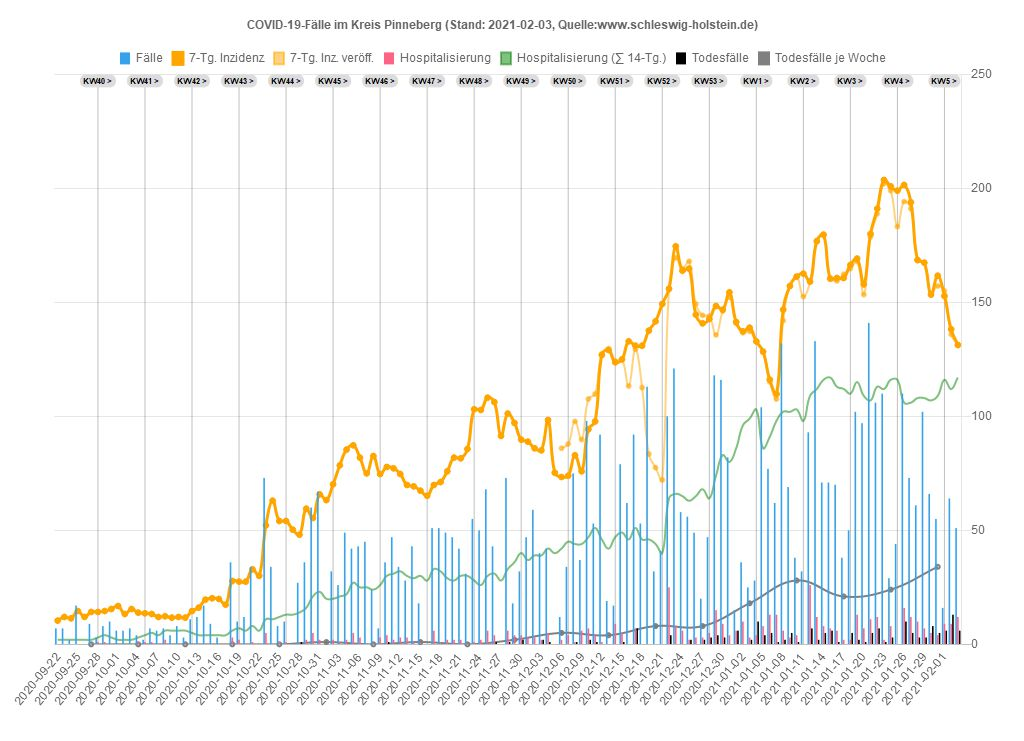
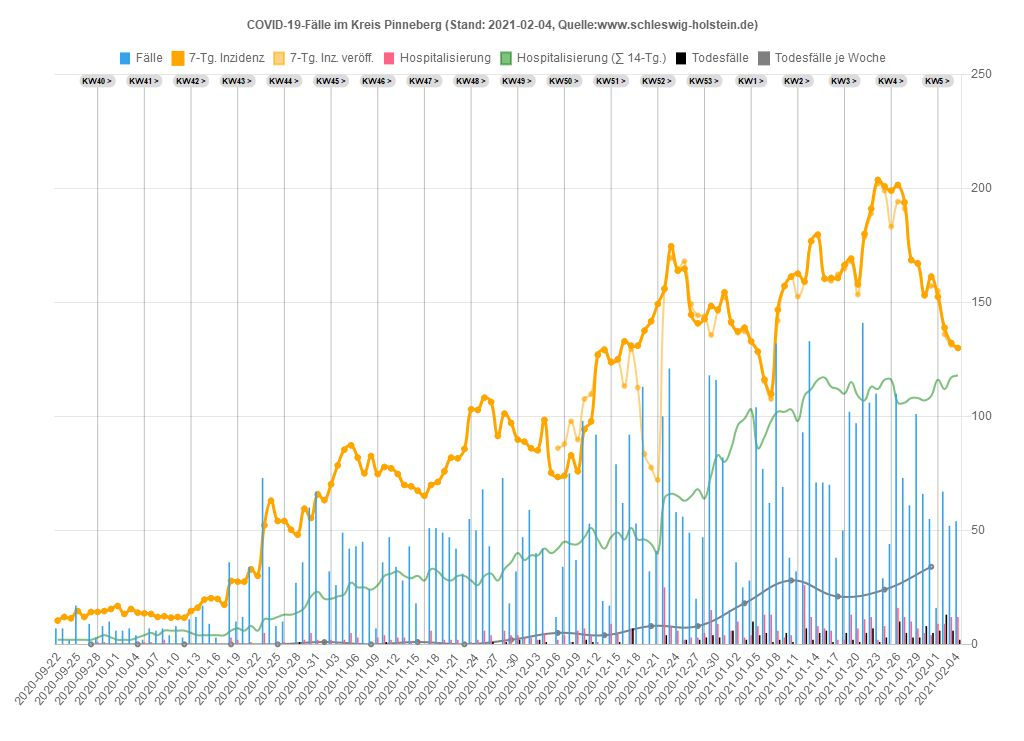
04.02.2021 20:33:41,16

Changed region(s): [[0.0938, 0.0931, 0.9375, 0.9622], [0.0625, 0.0931, 0.0938, 0.1242]]

diff --git a/sh/Data_SH.js b/sh/Data_SH.js
@@ -1,20 +1,20 @@
 var chdata={
-labels: ["2020-09-22","2020-09-23","2020-09-24","2020-09-25","2020-09-26","2020-09-27","2020-09-28","2020-09-29","2020-09-30","2020-10-01","2020-10-02","2020-10-03","2020-10-04","2020-10-05","2020-10-06","2020-10-07","2020-10-08","2020-10-09","2020-10-10","2020-10-11","2020-10-12","2020-10-13","2020-10-14","2020-10-15","2020-10-16","2020-10-17","2020-10-18","2020-10-19","2020-10-20","2020-10-21","2020-10-22","2020-10-23","2020-10-24","2020-10-25","2020-10-26","2020-10-27","2020-10-28","2020-10-29","2020-10-30","2020-10-31","2020-11-01","2020-11-02","2020-11-03","2020-11-04","2020-11-05","2020-11-06","2020-11-07","2020-11-08","2020-11-09","2020-11-10","2020-11-11","2020-11-12","2020-11-13","2020-11-14","2020-11-15","2020-11-16","2020-11-17","2020-11-18","2020-11-19","2020-11-20","2020-11-21","2020-11-22","2020-11-23","2020-11-24","2020-11-25","2020-11-26","2020-11-27","2020-11-28","2020-11-29","2020-11-30","2020-12-01","2020-12-02","2020-12-03","2020-12-04","2020-12-05","2020-12-06","2020-12-07","2020-12-08","2020-12-09","2020-12-10","2020-12-11","2020-12-12","2020-12-13","2020-12-14","2020-12-15","2020-12-16","2020-12-17","2020-12-18","2020-12-19","2020-12-20","2020-12-21","2020-12-22","2020-12-23","2020-12-24","2020-12-25","2020-12-26","2020-12-27","2020-12-28","2020-12-29","2020-12-30","2020-12-31","2021-01-01","2021-01-02","2021-01-03","2021-01-04","2021-01-05","2021-01-06","2021-01-07","2021-01-08","2021-01-09","2021-01-10","2021-01-11","2021-01-12","2021-01-13","2021-01-14","2021-01-15","2021-01-16","2021-01-17","2021-01-18","2021-01-19","2021-01-20","2021-01-21","2021-01-22","2021-01-23","2021-01-24","2021-01-25","2021-01-26","2021-01-27","2021-01-28","2021-01-29","2021-01-30","2021-01-31","2021-02-01","2021-02-02","2021-02-03"],
+labels: ["2020-09-22","2020-09-23","2020-09-24","2020-09-25","2020-09-26","2020-09-27","2020-09-28","2020-09-29","2020-09-30","2020-10-01","2020-10-02","2020-10-03","2020-10-04","2020-10-05","2020-10-06","2020-10-07","2020-10-08","2020-10-09","2020-10-10","2020-10-11","2020-10-12","2020-10-13","2020-10-14","2020-10-15","2020-10-16","2020-10-17","2020-10-18","2020-10-19","2020-10-20","2020-10-21","2020-10-22","2020-10-23","2020-10-24","2020-10-25","2020-10-26","2020-10-27","2020-10-28","2020-10-29","2020-10-30","2020-10-31","2020-11-01","2020-11-02","2020-11-03","2020-11-04","2020-11-05","2020-11-06","2020-11-07","2020-11-08","2020-11-09","2020-11-10","2020-11-11","2020-11-12","2020-11-13","2020-11-14","2020-11-15","2020-11-16","2020-11-17","2020-11-18","2020-11-19","2020-11-20","2020-11-21","2020-11-22","2020-11-23","2020-11-24","2020-11-25","2020-11-26","2020-11-27","2020-11-28","2020-11-29","2020-11-30","2020-12-01","2020-12-02","2020-12-03","2020-12-04","2020-12-05","2020-12-06","2020-12-07","2020-12-08","2020-12-09","2020-12-10","2020-12-11","2020-12-12","2020-12-13","2020-12-14","2020-12-15","2020-12-16","2020-12-17","2020-12-18","2020-12-19","2020-12-20","2020-12-21","2020-12-22","2020-12-23","2020-12-24","2020-12-25","2020-12-26","2020-12-27","2020-12-28","2020-12-29","2020-12-30","2020-12-31","2021-01-01","2021-01-02","2021-01-03","2021-01-04","2021-01-05","2021-01-06","2021-01-07","2021-01-08","2021-01-09","2021-01-10","2021-01-11","2021-01-12","2021-01-13","2021-01-14","2021-01-15","2021-01-16","2021-01-17","2021-01-18","2021-01-19","2021-01-20","2021-01-21","2021-01-22","2021-01-23","2021-01-24","2021-01-25","2021-01-26","2021-01-27","2021-01-28","2021-01-29","2021-01-30","2021-01-31","2021-02-01","2021-02-02","2021-02-03","2021-02-04"],
 datasets: [
 {label: 'Fälle',
 type: 'bar',
 backgroundColor: window.chartColors.blue,
-data: [38,42,63,53,15,15,38,48,49,27,50,16,24,39,54,45,79,54,26,25,65,65,65,55,90,26,88,163,111,160,136,236,142,115,164,164,280,215,313,265,161,142,236,262,220,274,233,177,215,252,247,192,296,158,161,100,294,208,264,250,153,121,145,251,256,225,180,219,71,81,244,240,245,318,234,122,179,356,340,443,429,444,144,210,506,522,489,553,440,193,280,589,673,366,177,201,188,268,576,466,357,135,264,203,265,542,537,482,523,408,143,261,399,491,422,417,358,202,239,468,485,501,459,442,157,161,539,464,385,347,262,179,129,367,345]},
+data: [38,42,63,53,15,15,38,48,49,27,50,16,24,39,54,45,79,54,26,25,65,65,65,55,90,26,88,163,111,160,136,236,142,115,164,164,280,215,313,265,161,142,236,262,220,274,233,177,215,252,247,192,296,158,161,100,294,208,264,250,153,121,145,251,256,225,180,219,71,81,244,240,245,318,234,122,179,356,340,443,429,444,144,210,506,522,489,553,440,193,280,589,673,366,177,201,188,268,576,466,357,135,264,203,265,542,537,482,523,408,143,261,399,491,422,417,358,202,239,468,485,501,459,442,157,161,539,464,385,347,262,179,130,371,346,290]},
 {label: '7-Tg. Inzidenz',
 type: 'line',
 fill: false,
 pointBackgroundColor: 'orange',
 borderColor: 'orange',
-data: [7.2,7.9,8.7,9.4,9.3,9.2,9.1,9.4,9.7,8.4,8.3,8.4,8.7,8.7,8.9,8.8,10.6,10.7,11.1,11.1,12.0,12.4,13.1,12.2,13.5,13.5,15.6,19.0,20.6,23.9,26.7,31.7,35.7,36.6,36.6,38.5,42.6,45.3,48.0,52.2,53.8,53.0,55.5,54.9,55.1,53.7,52.6,53.2,55.7,56.2,55.7,54.8,55.5,52.9,52.4,48.4,49.9,48.5,51.0,49.4,49.2,47.9,49.4,47.9,49.6,48.2,45.8,48.1,46.4,44.2,43.9,43.4,44.1,48.8,49.3,51.1,54.5,58.3,61.8,68.6,72.4,79.7,80.4,81.5,86.6,92.9,94.5,98.8,98.6,100.3,102.7,105.6,110.8,106.6,93.6,85.4,85.2,84.8,84.3,77.2,76.9,75.5,77.6,78.1,78.0,76.9,79.3,83.6,97.0,101.9,99.9,99.7,94.8,93.2,91.2,87.5,85.8,87.8,87.1,89.4,89.2,91.9,93.4,96.3,94.7,92.1,94.5,93.8,89.8,85.9,79.7,80.5,79.4,73.5,69.4]},
+data: [7.2,7.9,8.7,9.4,9.3,9.2,9.1,9.4,9.7,8.4,8.3,8.4,8.7,8.7,8.9,8.8,10.6,10.7,11.1,11.1,12.0,12.4,13.1,12.2,13.5,13.5,15.6,19.0,20.6,23.9,26.7,31.7,35.7,36.6,36.6,38.5,42.6,45.3,48.0,52.2,53.8,53.0,55.5,54.9,55.1,53.7,52.6,53.2,55.7,56.2,55.7,54.8,55.5,52.9,52.4,48.4,49.9,48.5,51.0,49.4,49.2,47.9,49.4,47.9,49.6,48.2,45.8,48.1,46.4,44.2,43.9,43.4,44.1,48.8,49.3,51.1,54.5,58.3,61.8,68.6,72.4,79.7,80.4,81.5,86.6,92.9,94.5,98.8,98.6,100.3,102.7,105.6,110.8,106.6,93.6,85.4,85.2,84.8,84.3,77.2,76.9,75.5,77.6,78.1,78.0,76.9,79.3,83.6,97.0,101.9,99.9,99.7,94.8,93.2,91.2,87.5,85.8,87.8,87.1,89.4,89.2,91.9,93.4,96.3,94.7,92.1,94.5,93.8,89.8,85.9,79.7,80.5,79.4,73.6,69.6,66.3]},
 {label: 'Hospitalisierung',
 type: 'bar',
 backgroundColor: window.chartColors.red,
-data: [1,2,7,1,0,0,2,1,3,1,1,0,4,3,1,1,4,2,0,3,5,1,1,2,4,0,9,10,8,9,12,7,5,6,7,7,11,10,11,6,3,9,19,20,15,15,5,7,13,15,21,13,17,8,17,13,23,10,15,9,7,7,13,16,26,19,12,14,15,10,12,8,10,14,3,5,24,13,26,20,14,12,6,26,27,16,20,18,8,13,13,43,35,23,17,21,26,25,46,33,33,20,34,32,51,58,35,46,34,30,22,45,69,51,59,52,32,37,36,51,53,47,34,33,38,51,37,53,37,29,46,58,40,36,47]},
+data: [1,2,7,1,0,0,2,1,3,1,1,0,4,3,1,1,4,2,0,3,5,1,1,2,4,0,9,10,8,9,12,7,5,6,7,7,11,10,11,6,3,9,19,20,15,15,5,7,13,15,21,13,17,8,17,13,23,10,15,9,7,7,13,16,26,19,12,14,15,10,12,8,10,14,3,5,24,13,26,20,14,12,6,26,27,16,20,18,8,13,13,43,35,23,17,21,26,25,46,33,33,20,34,32,51,58,35,46,34,30,22,45,69,51,59,52,32,37,36,51,53,47,34,33,38,51,37,53,37,29,46,58,40,36,47,44]},
 {label: 'Hosp. (∑ 14-Tg.)',
 type: 'line',
 fill: false,
@@ -22,17 +22,17 @@ hidden: true,
 borderColor: 'rgba(0,255,0,0.5)',
 borderWidth: 1.5,
 pointRadius: 0,
-data: [12,12,20,22,22,22,22,23,23,21,22,21,24,26,26,25,22,23,23,26,29,29,27,28,31,31,36,43,50,58,66,71,76,79,81,87,97,105,112,118,112,111,122,133,136,144,144,145,151,159,169,172,178,180,194,198,202,192,192,186,188,188,188,189,194,200,195,201,199,196,185,183,178,183,179,177,188,185,185,186,188,186,177,193,208,216,226,230,235,243,232,262,271,274,277,286,306,305,324,341,354,356,382,401,439,454,454,477,494,503,499,519,542,560,586,618,616,621,606,599,617,618,618,621,637,643,611,613,591,568,582,603,607,592,586]},
+data: [12,12,20,22,22,22,22,23,23,21,22,21,24,26,26,25,22,23,23,26,29,29,27,28,31,31,36,43,50,58,66,71,76,79,81,87,97,105,112,118,112,111,122,133,136,144,144,145,151,159,169,172,178,180,194,198,202,192,192,186,188,188,188,189,194,200,195,201,199,196,185,183,178,183,179,177,188,185,185,186,188,186,177,193,208,216,226,230,235,243,232,262,271,274,277,286,306,305,324,341,354,356,382,401,439,454,454,477,494,503,499,519,542,560,586,618,616,621,606,599,617,618,618,621,637,643,611,613,591,568,582,603,607,592,586,583]},
 {label: 'Aktuell im Krankenhaus',
 type: 'line',
 fill: false,
 pointBackgroundColor: 'green',
 borderColor: 'green',
-data: [6,6,6,6,6,6,6,11,11,11,11,14,14,15,15,14,14,14,13,13,18,18,18,21,24,24,24,24,31,31,31,31,51,51,58,58,58,58,58,58,58,94,110,114,119,118,124,120,126,116,113,119,112,116,116,148,145,151,141,141,141,141,155,142,122,113,118,118,118,124,114,110,109,114,114,114,131,122,128,132,133,133,133,177,181,194,201,212,236,250,275,271,267,262,262,262,262,309,318,322,346,346,376,376,390,412,376,379,364,364,364,384,362,373,382,398,426,473,454,457,457,438,447,461,485,499,499,494,505,485,488,506,513,501,471]},
+data: [6,6,6,6,6,6,6,11,11,11,11,14,14,15,15,14,14,14,13,13,18,18,18,21,24,24,24,24,31,31,31,31,51,51,58,58,58,58,58,58,58,94,110,114,119,118,124,120,126,116,113,119,112,116,116,148,145,151,141,141,141,141,155,142,122,113,118,118,118,124,114,110,109,114,114,114,131,122,128,132,133,133,133,177,181,194,201,212,236,250,275,271,267,262,262,262,262,309,318,322,346,346,376,376,390,412,376,379,364,364,364,384,362,373,382,398,426,473,454,457,457,438,447,461,485,499,499,494,505,485,488,506,513,501,471,473]},
 {label: 'Todesfälle',
 type: 'bar',
 backgroundColor: 'black',
-data: [0,0,0,0,0,0,0,1,0,0,0,0,0,0,0,0,0,0,0,0,0,1,0,0,0,0,0,0,0,0,1,0,0,3,0,0,3,4,1,0,2,6,7,2,2,6,0,1,4,3,5,0,5,1,3,5,0,2,2,2,1,0,3,4,1,3,3,1,4,2,3,1,4,1,0,1,4,2,5,7,7,1,2,2,6,7,11,3,2,0,9,15,4,3,4,7,10,18,17,14,2,9,7,3,29,22,17,6,14,11,9,15,25,15,15,24,3,1,23,16,16,18,16,3,11,14,25,21,19,19,24,11,29,27,23]},
+data: [0,0,0,0,0,0,0,1,0,0,0,0,0,0,0,0,0,0,0,0,0,1,0,0,0,0,0,0,0,0,1,0,0,3,0,0,3,4,1,0,2,6,7,2,2,6,0,1,4,3,5,0,5,1,3,5,0,2,2,2,1,0,3,4,1,3,3,1,4,2,3,1,4,1,0,1,4,2,5,7,7,1,2,2,6,7,11,3,2,0,9,15,4,3,4,7,10,18,17,14,2,9,7,3,29,22,17,6,14,11,9,15,25,15,15,24,3,1,23,16,16,18,16,3,11,14,25,21,19,19,24,11,29,27,23,18]},
 {label: 'Todesfälle je Woche',
 type: 'line',
 fill: false,
@@ -41,6 +41,6 @@ borderColor: 'rgba(128,128,128,1)',
 borderWidth: 2,
 pointRadius: 2,
 yAxisID: 'first-y-axis',
-data: [,,,,,0,,,,,,,1,,,,,,,0,,,,,,,1,,,,,,,4,,,,,,,10,,,,,,,24,,,,,,,21,,,,,,,12,,,,,,,19,,,,,,,12,,,,,,,28,,,,,,,31,,,,,,,52,,,,,,,70,,,,,,,108,,,,,,,98,,,,,,,103,,,,,,,133,,,]},
+data: [,,,,,0,,,,,,,1,,,,,,,0,,,,,,,1,,,,,,,4,,,,,,,10,,,,,,,24,,,,,,,21,,,,,,,12,,,,,,,19,,,,,,,12,,,,,,,28,,,,,,,31,,,,,,,52,,,,,,,70,,,,,,,108,,,,,,,98,,,,,,,103,,,,,,,133,,,,]},
 ]};
 

diff --git a/sh/Kreis_PI.js b/sh/Kreis_PI.js
@@ -1,18 +1,18 @@
 var chdata={
-labels: ["2020-09-22","2020-09-23","2020-09-24","2020-09-25","2020-09-26","2020-09-27","2020-09-28","2020-09-29","2020-09-30","2020-10-01","2020-10-02","2020-10-03","2020-10-04","2020-10-05","2020-10-06","2020-10-07","2020-10-08","2020-10-09","2020-10-10","2020-10-11","2020-10-12","2020-10-13","2020-10-14","2020-10-15","2020-10-16","2020-10-17","2020-10-18","2020-10-19","2020-10-20","2020-10-21","2020-10-22","2020-10-23","2020-10-24","2020-10-25","2020-10-26","2020-10-27","2020-10-28","2020-10-29","2020-10-30","2020-10-31","2020-11-01","2020-11-02","2020-11-03","2020-11-04","2020-11-05","2020-11-06","2020-11-07","2020-11-08","2020-11-09","2020-11-10","2020-11-11","2020-11-12","2020-11-13","2020-11-14","2020-11-15","2020-11-16","2020-11-17","2020-11-18","2020-11-19","2020-11-20","2020-11-21","2020-11-22","2020-11-23","2020-11-24","2020-11-25","2020-11-26","2020-11-27","2020-11-28","2020-11-29","2020-11-30","2020-12-01","2020-12-02","2020-12-03","2020-12-04","2020-12-05","2020-12-06","2020-12-07","2020-12-08","2020-12-09","2020-12-10","2020-12-11","2020-12-12","2020-12-13","2020-12-14","2020-12-15","2020-12-16","2020-12-17","2020-12-18","2020-12-19","2020-12-20","2020-12-21","2020-12-22","2020-12-23","2020-12-24","2020-12-25","2020-12-26","2020-12-27","2020-12-28","2020-12-29","2020-12-30","2020-12-31","2021-01-01","2021-01-02","2021-01-03","2021-01-04","2021-01-05","2021-01-06","2021-01-07","2021-01-08","2021-01-09","2021-01-10","2021-01-11","2021-01-12","2021-01-13","2021-01-14","2021-01-15","2021-01-16","2021-01-17","2021-01-18","2021-01-19","2021-01-20","2021-01-21","2021-01-22","2021-01-23","2021-01-24","2021-01-25","2021-01-26","2021-01-27","2021-01-28","2021-01-29","2021-01-30","2021-01-31","2021-02-01","2021-02-02","2021-02-03"],
+labels: ["2020-09-22","2020-09-23","2020-09-24","2020-09-25","2020-09-26","2020-09-27","2020-09-28","2020-09-29","2020-09-30","2020-10-01","2020-10-02","2020-10-03","2020-10-04","2020-10-05","2020-10-06","2020-10-07","2020-10-08","2020-10-09","2020-10-10","2020-10-11","2020-10-12","2020-10-13","2020-10-14","2020-10-15","2020-10-16","2020-10-17","2020-10-18","2020-10-19","2020-10-20","2020-10-21","2020-10-22","2020-10-23","2020-10-24","2020-10-25","2020-10-26","2020-10-27","2020-10-28","2020-10-29","2020-10-30","2020-10-31","2020-11-01","2020-11-02","2020-11-03","2020-11-04","2020-11-05","2020-11-06","2020-11-07","2020-11-08","2020-11-09","2020-11-10","2020-11-11","2020-11-12","2020-11-13","2020-11-14","2020-11-15","2020-11-16","2020-11-17","2020-11-18","2020-11-19","2020-11-20","2020-11-21","2020-11-22","2020-11-23","2020-11-24","2020-11-25","2020-11-26","2020-11-27","2020-11-28","2020-11-29","2020-11-30","2020-12-01","2020-12-02","2020-12-03","2020-12-04","2020-12-05","2020-12-06","2020-12-07","2020-12-08","2020-12-09","2020-12-10","2020-12-11","2020-12-12","2020-12-13","2020-12-14","2020-12-15","2020-12-16","2020-12-17","2020-12-18","2020-12-19","2020-12-20","2020-12-21","2020-12-22","2020-12-23","2020-12-24","2020-12-25","2020-12-26","2020-12-27","2020-12-28","2020-12-29","2020-12-30","2020-12-31","2021-01-01","2021-01-02","2021-01-03","2021-01-04","2021-01-05","2021-01-06","2021-01-07","2021-01-08","2021-01-09","2021-01-10","2021-01-11","2021-01-12","2021-01-13","2021-01-14","2021-01-15","2021-01-16","2021-01-17","2021-01-18","2021-01-19","2021-01-20","2021-01-21","2021-01-22","2021-01-23","2021-01-24","2021-01-25","2021-01-26","2021-01-27","2021-01-28","2021-01-29","2021-01-30","2021-01-31","2021-02-01","2021-02-02","2021-02-03","2021-02-04"],
 datasets: [
 {label: 'Fälle',
 type: 'bar',
 backgroundColor: window.chartColors.blue,
 yAxisID: 'first-y-axis',
-data: [7,7,2,17,0,9,3,8,10,6,6,7,4,2,7,6,7,4,8,3,11,12,17,9,3,0,36,10,12,34,0,73,34,8,10,0,27,36,60,67,0,32,26,49,42,43,45,24,7,36,47,34,28,43,18,0,51,51,49,47,42,31,55,50,68,43,0,73,18,32,47,59,40,42,0,12,34,75,37,98,53,92,19,17,79,62,92,53,113,32,41,100,121,58,56,49,20,47,118,116,82,15,36,25,28,104,77,62,132,69,38,32,93,133,71,71,70,38,50,102,97,141,106,110,29,44,110,73,61,102,66,55,16,64,51]},
+data: [7,7,2,17,0,9,3,8,10,6,6,7,4,2,7,6,7,4,8,3,11,12,17,9,3,0,36,10,12,34,0,73,34,8,10,0,27,36,60,67,0,32,26,49,42,43,45,24,7,36,47,34,28,43,18,0,51,51,49,47,42,31,55,50,68,43,0,73,18,32,47,59,40,42,0,12,34,75,37,98,53,92,19,17,79,62,92,53,113,32,41,100,121,58,56,49,20,47,118,116,82,15,36,25,28,104,77,62,132,69,38,32,93,133,71,71,70,38,50,102,97,141,106,110,29,44,110,73,61,101,66,55,16,67,52,54]},
 {label: '7-Tg. Inzidenz',
 type: 'line',
 fill: false,
 pointBackgroundColor: 'orange',
 borderColor: 'orange',
 yAxisID: 'first-y-axis',
-data: [10.4,12.0,11.4,14.6,12.0213981,14.2,14.2,14.6,15.5,16.8,13.3,15.5,13.9,13.6,13.3,12.0,12.3,11.7,12.0,11.7,14.6,16.1,19.6,20.2,19.9,17.399392,27.8,27.5,27.5,32.9,30.0534952,52.2,63.0,54.1,54.1,50.3000604,48.1,59.5,55.4,65.8,63.2705163,70.2,78.5,85.4,87.3,81.9,75.0,82.6,74.7,77.8,77.2,74.7,69.9,69.3,67.4,65.1686317,69.9,71.2,75.9,81.9,81.6,85.7,103.1,102.8,108.2,106.3,91.425896,101.2,97.1,89.8,88.9,86.0,85.1,98.4,75.2919143,73.4,74.0,82.9,75.9,94.3,97.8,126.9,129.1,123.7,125.0,132.9,131.0,131.0,137.6,141.7,149.3,156.0,174.6,163.9,164.8,144.6,140.8,142.7,148.4,146.8,154.4,141.4,137.3,138.9,132.9,128.4,116.1,109.8,146.8,157.2,161.3,162.6,159.1,176.8,179.7,160.4,160.7,160.7,166.4,169.2,157.9,180.0,191.1,203.7,200.9,199.0,201.5,193.9,168.6,167.4,153.4,161.7,152.8,138.2,131.3]},
+data: [10.4,12.0,11.4,14.6,12.0213981,14.2,14.2,14.6,15.5,16.8,13.3,15.5,13.9,13.6,13.3,12.0,12.3,11.7,12.0,11.7,14.6,16.1,19.6,20.2,19.9,17.399392,27.8,27.5,27.5,32.9,30.0534952,52.2,63.0,54.1,54.1,50.3000604,48.1,59.5,55.4,65.8,63.2705163,70.2,78.5,85.4,87.3,81.9,75.0,82.6,74.7,77.8,77.2,74.7,69.9,69.3,67.4,65.1686317,69.9,71.2,75.9,81.9,81.6,85.7,103.1,102.8,108.2,106.3,91.425896,101.2,97.1,89.8,88.9,86.0,85.1,98.4,75.2919143,73.4,74.0,82.9,75.9,94.3,97.8,126.9,129.1,123.7,125.0,132.9,131.0,131.0,137.6,141.7,149.3,156.0,174.6,163.9,164.8,144.6,140.8,142.7,148.4,146.8,154.4,141.4,137.3,138.9,132.9,128.4,116.1,109.8,146.8,157.2,161.3,162.6,159.1,176.8,179.7,160.4,160.7,160.7,166.4,169.2,157.9,180.0,191.1,203.7,200.9,199.0,201.5,193.9,168.6,167.0,153.1,161.3,152.5,138.9,132.2,130.0]},
 {label: '7-Tg. Inz. veröff.',
 type: 'line',
 fill: false,
@@ -21,12 +21,12 @@ borderColor: 'rgba(255,165,0,0.5)',
 borderWidth: 2,
 pointRadius: 2,
 yAxisID: 'first-y-axis',
-data: [,,,,,,,,,,,,,,,,,,,,,,,,,,,,,,,,,,,,,,,,,,,,,,,,,,,,,,,,,,,,,,,,,,,,,,,,,,,86.0,87.9,97.8,89.8,107.6,109.8,127.5,129.7,124.3,125.0,113.3,129.4,112.6,83.5,77.5,72.1,155.6,169.6,164.8,168.0,149.3,144.3,143.9,135.7,146.2,152.2,140.8,136.7,137.3,132.9,128.4,115.2,107.6,142.0,157.2,161.3,152.5,159.1,177.2,179.4,160.7,159.4,162.3,164.8,168.0,153.4,178.7,188.9,202.1,199.0,183.2,194.2,191.1,168.3,167.4,153.7,157.2,155.0,136.0,131.3]},
+data: [,,,,,,,,,,,,,,,,,,,,,,,,,,,,,,,,,,,,,,,,,,,,,,,,,,,,,,,,,,,,,,,,,,,,,,,,,,,86.0,87.9,97.8,89.8,107.6,109.8,127.5,129.7,124.3,125.0,113.3,129.4,112.6,83.5,77.5,72.1,155.6,169.6,164.8,168.0,149.3,144.3,143.9,135.7,146.2,152.2,140.8,136.7,137.3,132.9,128.4,115.2,107.6,142.0,157.2,161.3,152.5,159.1,177.2,179.4,160.7,159.4,162.3,164.8,168.0,153.4,178.7,188.9,202.1,199.0,183.2,194.2,191.1,168.3,167.4,153.7,157.2,155.0,136.0,131.3,130.0]},
 {label: 'Hospitalisierung',
 type: 'bar',
 backgroundColor: window.chartColors.red,
 yAxisID: 'first-y-axis',
-data: [0,0,0,0,0,0,1,1,0,0,0,0,1,1,1,-1,2,0,0,0,0,0,0,0,0,0,3,2,0,1,0,5,0,1,1,0,1,2,5,2,0,2,1,2,5,3,0,0,3,4,2,3,3,1,1,0,6,1,2,2,2,0,1,2,6,4,0,6,4,4,3,3,2,5,0,2,4,1,6,7,4,1,0,9,5,0,7,0,0,0,0,25,8,6,2,3,3,5,15,9,4,6,10,3,4,8,13,13,6,3,4,0,26,12,8,7,6,2,2,13,7,11,12,2,8,0,16,12,10,7,5,4,9,9,12]},
+data: [0,0,0,0,0,0,1,1,0,0,0,0,1,1,1,-1,2,0,0,0,0,0,0,0,0,0,3,2,0,1,0,5,0,1,1,0,1,2,5,2,0,2,1,2,5,3,0,0,3,4,2,3,3,1,1,0,6,1,2,2,2,0,1,2,6,4,0,6,4,4,3,3,2,5,0,2,4,1,6,7,4,1,0,9,5,0,7,0,0,0,0,25,8,6,2,3,3,5,15,9,4,6,10,3,4,8,13,13,6,3,4,0,26,12,8,7,6,2,2,13,7,11,12,2,8,0,16,12,10,7,5,4,9,9,12,12]},
 {label: 'Hospitalisierung (∑ 14-Tg.)',
 type: 'line',
 pointRadius: 0,
@@ -34,12 +34,12 @@ fill: false,
 borderColor: 'rgba(0,128,0,0.5)',
 borderWidth: 2,
 yAxisID: 'first-y-axis',
-data: [2,2,2,2,2,2,3,4,3,2,2,2,3,4,5,4,6,6,6,6,5,4,4,4,4,4,6,7,6,8,6,11,11,12,13,13,14,16,21,23,20,20,21,22,27,25,25,24,26,30,31,32,30,29,30,28,33,32,29,28,30,30,28,26,30,31,28,33,36,40,37,39,39,42,40,42,45,44,44,47,51,46,42,47,49,46,51,46,46,44,40,64,66,65,63,65,68,64,74,83,80,86,96,99,103,86,91,98,102,102,103,98,109,112,116,117,113,112,110,115,109,107,113,112,116,116,106,106,108,108,107,109,116,112,117]},
+data: [2,2,2,2,2,2,3,4,3,2,2,2,3,4,5,4,6,6,6,6,5,4,4,4,4,4,6,7,6,8,6,11,11,12,13,13,14,16,21,23,20,20,21,22,27,25,25,24,26,30,31,32,30,29,30,28,33,32,29,28,30,30,28,26,30,31,28,33,36,40,37,39,39,42,40,42,45,44,44,47,51,46,42,47,49,46,51,46,46,44,40,64,66,65,63,65,68,64,74,83,80,86,96,99,103,86,91,98,102,102,103,98,109,112,116,117,113,112,110,115,109,107,113,112,116,116,106,106,108,108,107,109,116,112,117,118]},
 {label: 'Todesfälle',
 type: 'bar',
 backgroundColor: 'black',
 yAxisID: 'first-y-axis',
-data: [0,0,0,0,0,0,0,0,0,0,0,0,0,0,0,0,0,0,0,0,0,0,0,0,0,0,0,0,0,0,0,0,0,0,0,0,1,0,0,0,0,0,0,0,0,0,0,0,0,1,0,0,0,0,0,0,0,0,0,0,0,0,0,0,0,1,0,1,0,2,0,0,2,1,0,0,0,1,0,2,1,0,0,0,1,0,7,0,0,0,0,4,0,0,2,0,2,3,4,3,0,6,0,2,10,4,5,1,2,5,1,0,7,2,5,6,1,0,5,2,1,5,7,1,3,0,10,5,3,3,8,5,6,13,6]},
+data: [0,0,0,0,0,0,0,0,0,0,0,0,0,0,0,0,0,0,0,0,0,0,0,0,0,0,0,0,0,0,0,0,0,0,0,0,1,0,0,0,0,0,0,0,0,0,0,0,0,1,0,0,0,0,0,0,0,0,0,0,0,0,0,0,0,1,0,1,0,2,0,0,2,1,0,0,0,1,0,2,1,0,0,0,1,0,7,0,0,0,0,4,0,0,2,0,2,3,4,3,0,6,0,2,10,4,5,1,2,5,1,0,7,2,5,6,1,0,5,2,1,5,7,1,3,0,10,5,3,3,8,5,6,13,6,2]},
 {label: 'Todesfälle je Woche',
 type: 'line',
 fill: false,
@@ -48,6 +48,6 @@ borderColor: 'rgba(128,128,128,1)',
 borderWidth: 2,
 pointRadius: 2,
 yAxisID: 'first-y-axis',
-data: [,,,,,0,,,,,,,0,,,,,,,0,,,,,,,0,,,,,,,0,,,,,,,1,,,,,,,0,,,,,,,1,,,,,,,0,,,,,,,2,,,,,,,5,,,,,,,4,,,,,,,8,,,,,,,8,,,,,,,18,,,,,,,28,,,,,,,21,,,,,,,24,,,,,,,34,,,]},
+data: [,,,,,0,,,,,,,0,,,,,,,0,,,,,,,0,,,,,,,0,,,,,,,1,,,,,,,0,,,,,,,1,,,,,,,0,,,,,,,2,,,,,,,5,,,,,,,4,,,,,,,8,,,,,,,8,,,,,,,18,,,,,,,28,,,,,,,21,,,,,,,24,,,,,,,34,,,,]},
 ]};
 

diff --git a/sh/Data_SH_Alter.js b/sh/Data_SH_Alter.js
@@ -145,7 +145,8 @@ var chdata={
 				{x: '2021-01-31', y: 'Alle', v: 80.5848116, casesum: 2340},{x: '2021-01-31', y: '00-09', v: 45.9641168, casesum: 118},{x: '2021-01-31', y: '10-19', v: 67.0272855, casesum: 185},{x: '2021-01-31', y: '20-29', v: 98.4491908, casesum: 315},{x: '2021-01-31', y: '30-39', v: 81.8235646, casesum: 275},{x: '2021-01-31', y: '40-49', v: 85.3966119, casesum: 301},{x: '2021-01-31', y: '50-59', v: 73.273974, casesum: 363},{x: '2021-01-31', y: '60-69', v: 52.5403681, casesum: 191},{x: '2021-01-31', y: '70-79', v: 62.8524893, casesum: 186},{x: '2021-01-31', y: '80-89', v: 162.713457, casesum: 291},{x: '2021-01-31', y: '90+', v: 399.083842, casesum: 115},
 				{x: '2021-02-01', y: 'Alle', v: 80.3781838, casesum: 2334},{x: '2021-02-01', y: '00-09', v: 47.5222225, casesum: 122},{x: '2021-02-01', y: '10-19', v: 67.7519048, casesum: 187},{x: '2021-02-01', y: '20-29', v: 97.8241166, casesum: 313},{x: '2021-02-01', y: '30-39', v: 83.0137255, casesum: 279},{x: '2021-02-01', y: '40-49', v: 84.5454829, casesum: 298},{x: '2021-02-01', y: '50-59', v: 71.4572639, casesum: 354},{x: '2021-02-01', y: '60-69', v: 54.1908508, casesum: 197},{x: '2021-02-01', y: '70-79', v: 61.1629062, casesum: 181},{x: '2021-02-01', y: '80-89', v: 161.595151, casesum: 289},{x: '2021-02-01', y: '90+', v: 395.613548, casesum: 114},
 				{x: '2021-02-02', y: 'Alle', v: 70.8388707, casesum: 2057},{x: '2021-02-02', y: '00-09', v: 39.7316942, casesum: 102},{x: '2021-02-02', y: '10-19', v: 56.8826153, casesum: 157},{x: '2021-02-02', y: '20-29', v: 88.7605403, casesum: 284},{x: '2021-02-02', y: '30-39', v: 76.7653806, casesum: 258},{x: '2021-02-02', y: '40-49', v: 72.6296766, casesum: 256},{x: '2021-02-02', y: '50-59', v: 61.7681434, casesum: 306},{x: '2021-02-02', y: '60-69', v: 48.9643221, casesum: 178},{x: '2021-02-02', y: '70-79', v: 52.0391578, casesum: 154},{x: '2021-02-02', y: '80-89', v: 144.261415, casesum: 258},{x: '2021-02-02', y: '90+', v: 360.910605, casesum: 104},
-				{x: '2021-02-03', y: 'Alle', v: 70.1501116, casesum: 2037},{x: '2021-02-03', y: '00-09', v: 44.4060112, casesum: 114},{x: '2021-02-03', y: '10-19', v: 55.4333767, casesum: 153},{x: '2021-02-03', y: '20-29', v: 95.3238197, casesum: 305},{x: '2021-02-03', y: '30-39', v: 78.550622, casesum: 264},{x: '2021-02-03', y: '40-49', v: 72.9133863, casesum: 257},{x: '2021-02-03', y: '50-59', v: 63.9885668, casesum: 317},{x: '2021-02-03', y: '60-69', v: 47.3138393, casesum: 172},{x: '2021-02-03', y: '70-79', v: 46.2945754, casesum: 137},{x: '2021-02-03', y: '80-89', v: 125.250221, casesum: 224},{x: '2021-02-03', y: '90+', v: 326.207662, casesum: 94}
+				{x: '2021-02-03', y: 'Alle', v: 70.1501116, casesum: 2037},{x: '2021-02-03', y: '00-09', v: 44.4060112, casesum: 114},{x: '2021-02-03', y: '10-19', v: 55.4333767, casesum: 153},{x: '2021-02-03', y: '20-29', v: 95.3238197, casesum: 305},{x: '2021-02-03', y: '30-39', v: 78.550622, casesum: 264},{x: '2021-02-03', y: '40-49', v: 72.9133863, casesum: 257},{x: '2021-02-03', y: '50-59', v: 63.9885668, casesum: 317},{x: '2021-02-03', y: '60-69', v: 47.3138393, casesum: 172},{x: '2021-02-03', y: '70-79', v: 46.2945754, casesum: 137},{x: '2021-02-03', y: '80-89', v: 125.250221, casesum: 224},{x: '2021-02-03', y: '90+', v: 326.207662, casesum: 94},
+				{x: '2021-02-04', y: 'Alle', v: 67.1195717, casesum: 1949},{x: '2021-02-04', y: '00-09', v: 43.6269583, casesum: 112},{x: '2021-02-04', y: '10-19', v: 53.6218284, casesum: 148},{x: '2021-02-04', y: '20-29', v: 89.3856145, casesum: 286},{x: '2021-02-04', y: '30-39', v: 75.8727599, casesum: 255},{x: '2021-02-04', y: '40-49', v: 71.2111282, casesum: 251},{x: '2021-02-04', y: '50-59', v: 63.3829968, casesum: 314},{x: '2021-02-04', y: '60-69', v: 44.5630347, casesum: 162},{x: '2021-02-04', y: '70-79', v: 40.2120765, casesum: 119},{x: '2021-02-04', y: '80-89', v: 123.01361, casesum: 220},{x: '2021-02-04', y: '90+', v: 284.564131, casesum: 82}
 			],
 			backgroundColor: function(context) {
 				return inzColor(context.dataset.data[context.dataIndex].v)
@@ -153,7 +154,7 @@ var chdata={
 			width: function(context) {
 				const a = context.chart.chartArea
 				if (!a) return 0
-				return (a.right - a.left) / 142.5
+				return (a.right - a.left) / 143.5
 			},
 			height: function(context) {
 				const a = context.chart.chartArea
@@ -165,7 +166,7 @@ var chdata={
 	options: {
 		legend: { display: false },
 		scales: {
-			xAxes: [{type: 'category', labels: ["2020-09-15","2020-09-16","2020-09-17","2020-09-18","2020-09-19","2020-09-20","2020-09-21","2020-09-22","2020-09-23","2020-09-24","2020-09-25","2020-09-26","2020-09-27","2020-09-28","2020-09-29","2020-09-30","2020-10-01","2020-10-02","2020-10-03","2020-10-04","2020-10-05","2020-10-06","2020-10-07","2020-10-08","2020-10-09","2020-10-10","2020-10-11","2020-10-12","2020-10-13","2020-10-14","2020-10-15","2020-10-16","2020-10-17","2020-10-18","2020-10-19","2020-10-20","2020-10-21","2020-10-22","2020-10-23","2020-10-24","2020-10-25","2020-10-26","2020-10-27","2020-10-28","2020-10-29","2020-10-30","2020-10-31","2020-11-01","2020-11-02","2020-11-03","2020-11-04","2020-11-05","2020-11-06","2020-11-07","2020-11-08","2020-11-09","2020-11-10","2020-11-11","2020-11-12","2020-11-13","2020-11-14","2020-11-15","2020-11-16","2020-11-17","2020-11-18","2020-11-19","2020-11-20","2020-11-21","2020-11-22","2020-11-23","2020-11-24","2020-11-25","2020-11-26","2020-11-27","2020-11-28","2020-11-29","2020-11-30","2020-12-01","2020-12-02","2020-12-03","2020-12-04","2020-12-05","2020-12-06","2020-12-07","2020-12-08","2020-12-09","2020-12-10","2020-12-11","2020-12-12","2020-12-13","2020-12-14","2020-12-15","2020-12-16","2020-12-17","2020-12-18","2020-12-19","2020-12-20","2020-12-21","2020-12-22","2020-12-23","2020-12-24","2020-12-25","2020-12-26","2020-12-27","2020-12-28","2020-12-29","2020-12-30","2020-12-31","2021-01-01","2021-01-02","2021-01-03","2021-01-04","2021-01-05","2021-01-06","2021-01-07","2021-01-08","2021-01-09","2021-01-10","2021-01-11","2021-01-12","2021-01-13","2021-01-14","2021-01-15","2021-01-16","2021-01-17","2021-01-18","2021-01-19","2021-01-20","2021-01-21","2021-01-22","2021-01-23","2021-01-24","2021-01-25","2021-01-26","2021-01-27","2021-01-28","2021-01-29","2021-01-30","2021-01-31","2021-02-01","2021-02-02","2021-02-03",], ticks: {display: true},gridlines:{display:false}}],
+			xAxes: [{type: 'category', labels: ["2020-09-15","2020-09-16","2020-09-17","2020-09-18","2020-09-19","2020-09-20","2020-09-21","2020-09-22","2020-09-23","2020-09-24","2020-09-25","2020-09-26","2020-09-27","2020-09-28","2020-09-29","2020-09-30","2020-10-01","2020-10-02","2020-10-03","2020-10-04","2020-10-05","2020-10-06","2020-10-07","2020-10-08","2020-10-09","2020-10-10","2020-10-11","2020-10-12","2020-10-13","2020-10-14","2020-10-15","2020-10-16","2020-10-17","2020-10-18","2020-10-19","2020-10-20","2020-10-21","2020-10-22","2020-10-23","2020-10-24","2020-10-25","2020-10-26","2020-10-27","2020-10-28","2020-10-29","2020-10-30","2020-10-31","2020-11-01","2020-11-02","2020-11-03","2020-11-04","2020-11-05","2020-11-06","2020-11-07","2020-11-08","2020-11-09","2020-11-10","2020-11-11","2020-11-12","2020-11-13","2020-11-14","2020-11-15","2020-11-16","2020-11-17","2020-11-18","2020-11-19","2020-11-20","2020-11-21","2020-11-22","2020-11-23","2020-11-24","2020-11-25","2020-11-26","2020-11-27","2020-11-28","2020-11-29","2020-11-30","2020-12-01","2020-12-02","2020-12-03","2020-12-04","2020-12-05","2020-12-06","2020-12-07","2020-12-08","2020-12-09","2020-12-10","2020-12-11","2020-12-12","2020-12-13","2020-12-14","2020-12-15","2020-12-16","2020-12-17","2020-12-18","2020-12-19","2020-12-20","2020-12-21","2020-12-22","2020-12-23","2020-12-24","2020-12-25","2020-12-26","2020-12-27","2020-12-28","2020-12-29","2020-12-30","2020-12-31","2021-01-01","2021-01-02","2021-01-03","2021-01-04","2021-01-05","2021-01-06","2021-01-07","2021-01-08","2021-01-09","2021-01-10","2021-01-11","2021-01-12","2021-01-13","2021-01-14","2021-01-15","2021-01-16","2021-01-17","2021-01-18","2021-01-19","2021-01-20","2021-01-21","2021-01-22","2021-01-23","2021-01-24","2021-01-25","2021-01-26","2021-01-27","2021-01-28","2021-01-29","2021-01-30","2021-01-31","2021-02-01","2021-02-02","2021-02-03","2021-02-04",], ticks: {display: true},gridlines:{display:false}}],
 			yAxes: [{type: 'category', labels: ["Alle","00-09","10-19","20-29","30-39","40-49","50-59","60-69","70-79","80-89","90+"], offset:true, ticks: {display: true},gridlines:{display:false}}],
 		},
 	}

diff --git a/sh/index_sh_alter.html b/sh/index_sh_alter.html
@@ -5,7 +5,7 @@
 <meta property="og:image" content="index_sh_alter.jpg" />
 <meta property="og:type" content="website" />
 <meta property="og:locale" content="de_DE" />
-<meta property="og:updated_time" content="2021-02-04T17:02:15+01:00" />
+<meta property="og:updated_time" content="2021-02-04T20:33:39+01:00" />
 <title>Altersverteilung der COVID-19-Fälle in Schleswig-Holstein</title>
 <link rel="stylesheet" href="../css/style.css" media="screen" type="text/css">
 <link rel="stylesheet" media="screen" href="Chart.min.css"> 

diff --git a/sh/index_pi_alter.html b/sh/index_pi_alter.html
@@ -5,7 +5,7 @@
 <meta property="og:image" content="index_pi_alter.jpg" />
 <meta property="og:type" content="website" />
 <meta property="og:locale" content="de_DE" />
-<meta property="og:updated_time" content="2021-02-04T17:02:15+01:00" />
+<meta property="og:updated_time" content="2021-02-04T20:33:39+01:00" />
 <title>Altersverteilung der COVID-19-Fälle im Kreis Pinneberg</title>
 <link rel="stylesheet" href="../css/style.css" media="screen" type="text/css">
 <link rel="stylesheet" media="screen" href="Chart.min.css"> 

diff --git a/sh/index.html b/sh/index.html
@@ -5,7 +5,7 @@
 <meta property="og:image" content="index.jpg" />
 <meta property="og:type" content="website" />
 <meta property="og:locale" content="de_DE" />
-<meta property="og:updated_time" content="2021-02-04T17:02:15+01:00" />
+<meta property="og:updated_time" content="2021-02-04T20:33:39+01:00" />
 <title>COVID-19-Fälle im Kreis Pinneberg</title>
 <link rel="stylesheet" href="../css/style.css" media="screen" type="text/css">
 <link rel="stylesheet" media="screen" href="Chart.min.css"> 
